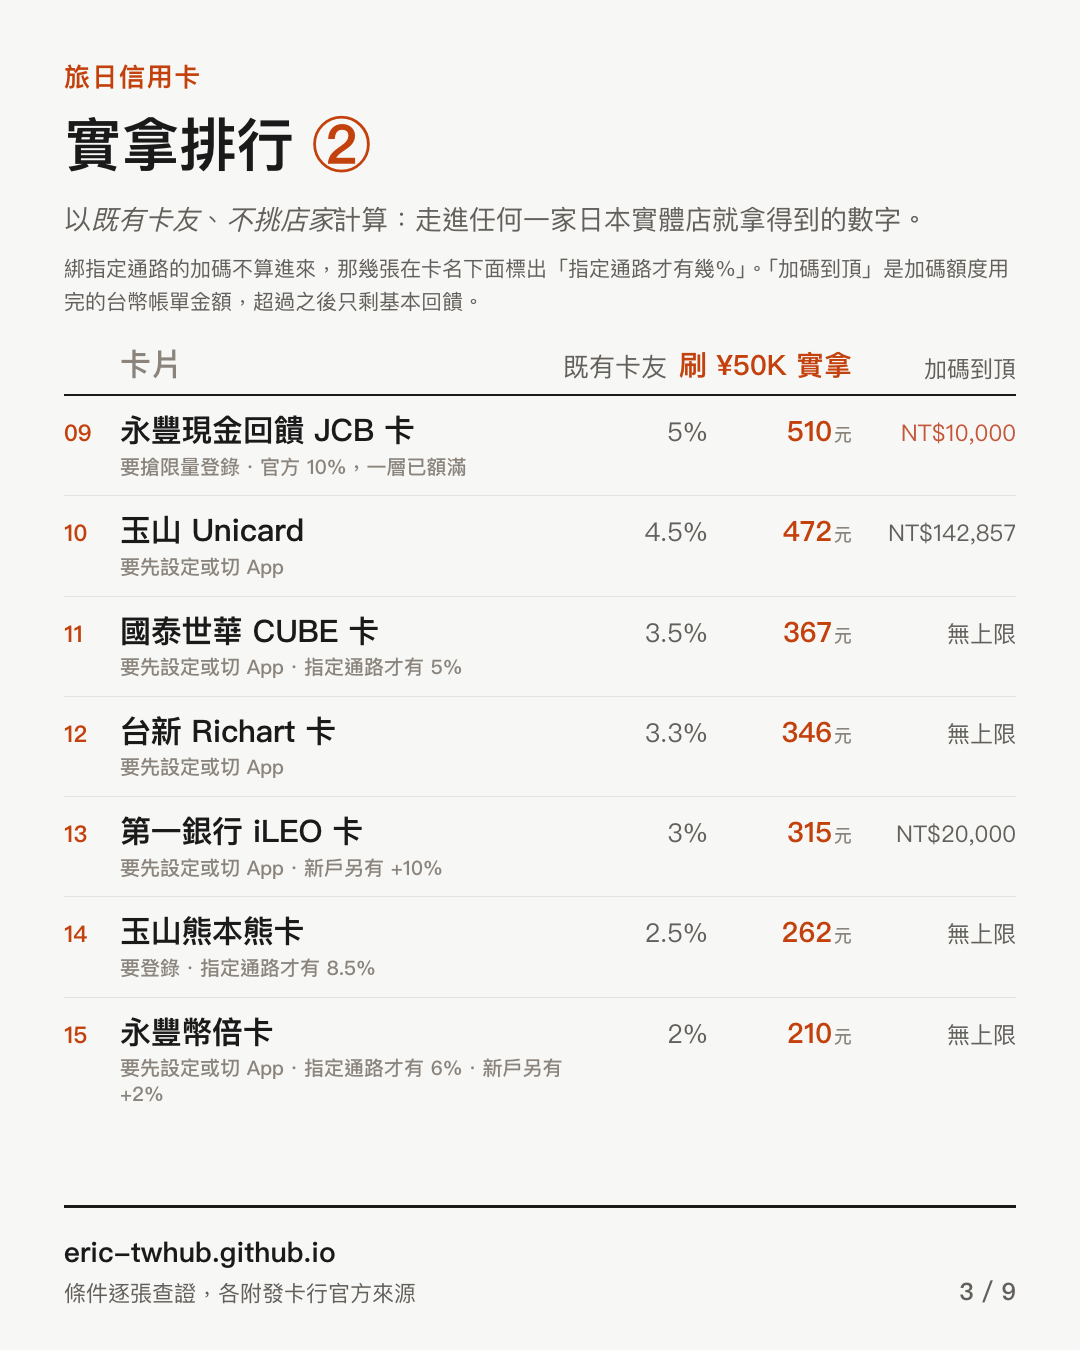
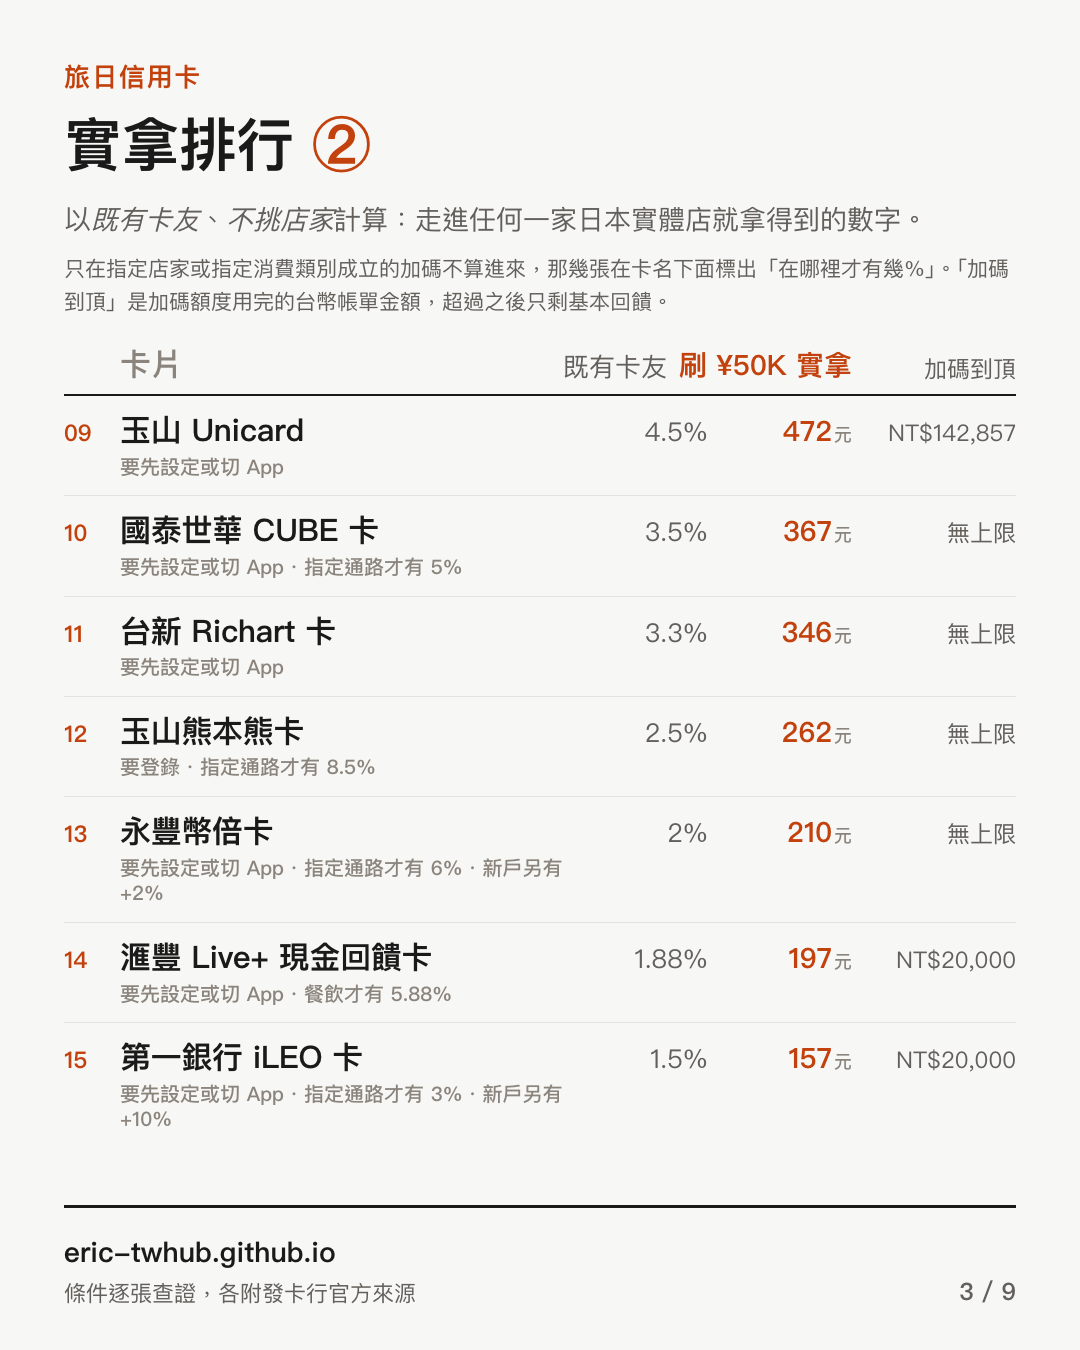
實拿排行再補兩張：綁消費類別的加碼也不算「不挑店家」
上一版只擋 store_scope（逐家店的名單），漏掉綁 MCC 類別的兩層：

- 滙豐 Live+ 三大通路 3% 只認餐飲 5441/5499/5812-5814、
  購物 5311/5944/5948、娛樂 7832/7996/7998；精選國家餐飲 1%
  只認餐飲。藥妝、電器、超市都不在名單裡，這張卡自己的
  exclude 就寫明那些只有 0.88%。排行卻印 5.88%。
- 第一銀行 iLEO 指定通路加碼 1.5% 依帳單商店名稱與行業代碼
  認定，不是泛稱的海外外幣。排行卻印 3%。

cards.json 新增 cat_scope（類別標籤陣列），和 store_scope 分開：
store_scope 是店家 slug 名單、會影響店家頁，cat_scope 只影響
「走進任何一家店拿得到多少」的計算，gen.py 不讀。

圖卡：滙豐 5.88% → 1.88%（617 元 → 197 元，第 4 名掉到第 14 名），
iLEO 3% → 1.5%（315 元 → 157 元）。卡名下面標出要在哪裡才成立，
逐層算出來：滙豐印「餐飲才有 5.88%」（餐廳才同時吃得到兩層），
iLEO 印「指定通路才有 3%」。

diff --git a/make_creditcard_cards.py b/make_creditcard_cards.py
@@ -201,12 +201,23 @@ def build(CD, mid, fee, rate_note):
     def rate_txt(v):
         return f'{v:g}%'
 
-    def plain_ts(c):
-        """到處都能拿到的加碼層：排除新戶層、名額已滿的層、以及綁店家名單的層。
+    def cats(t):
+        """這一層挑不挑店家：回傳它成立的類別標籤，到處都成立就回空的。
 
-        綁名單的那幾層只有在指定通路才成立，和不綁的層排在同一欄比大小
-        等於假設讀者剛好都在那幾家消費。四張卡因此被高估，熊本熊差 500 元。"""
-        return [t for t in tiers(c, 'shop', newbie=False) if not t.get('store_scope')]
+        兩種挑法要一起擋。store_scope 是逐家店的名單（熊本熊的指定店家），
+        cat_scope 是消費類別（滙豐只認餐飲購物娛樂的 MCC，藥妝與超市不算）。
+        只擋前者的話，滙豐 5.88% 與 iLEO 3% 會印在「走進任何一家店」那一欄，
+        而它們自己的官方條款就寫明藥妝店只有 0.88%。"""
+        if t.get('cat_scope'):
+            return list(t['cat_scope'])
+        return ['指定通路'] if t.get('store_scope') else []
+
+    def plain_ts(c):
+        """到處都能拿到的加碼層：排除新戶層、名額已滿的層、以及挑店家的層。
+
+        挑店家的那幾層只有在特定通路或特定類別才成立，和不挑的層排在同一欄
+        比大小，等於假設讀者剛好都在那幾家消費。六張卡因此被高估。"""
+        return [t for t in tiers(c, 'shop', newbie=False) if not cats(t)]
 
     def plain_rate(c):
         ts = plain_ts(c)
@@ -229,11 +240,31 @@ def build(CD, mid, fee, rate_note):
         ts = [t for t in plain_ts(c) if t['cap']]
         return round(min(t['cap'] / (t['rate'] / 100) for t in ts)) if ts else 0
 
-    def store_rate(c):
-        """挑對店家才拿得到的那個數字，沒有綁名單的層就回 0。"""
-        return (round(maxrate(c, 'shop', newbie=False), 2)
-                if any(t.get('store_scope') for t in tiers(c, 'shop', newbie=False))
-                else 0)
+    def cat_clause(c):
+        """挑對店家才拿得到的那個數字，寫成一句話；不挑店家的卡回空字串。
+
+        同一張卡的各層覆蓋範圍不一定一樣（滙豐的 3% 認餐飲購物娛樂、
+        1% 只認餐飲），所以逐個類別算，再取最高的那一組。印最高那一組
+        是因為帳面數字就是從那裡來的，要講清楚它要在哪裡才成立。"""
+        st = [t for t in tiers(c, 'shop', newbie=False) if cats(t)]
+        if not st:
+            return ''
+        base = plain_rate(c)
+        tags = []
+        for t in st:
+            for x in cats(t):
+                if x not in tags:
+                    tags.append(x)
+        best, top = [], base
+        for x in tags:
+            r = round(base + sum(t['rate'] for t in st if x in cats(t)), 2)
+            if r > top:
+                best, top = [x], r
+            elif r == top:
+                best.append(x)
+        if not best:
+            return ''
+        return f'{"／".join(best)}才有 {top:g}%'
 
     REG = {'none': '免登錄', 'reg': '要登錄', 'setup': '要先設定或切 App',
            'race': '要搶限量登錄'}
@@ -282,12 +313,11 @@ def build(CD, mid, fee, rate_note):
             v, capped = plain_back(c)
             h = plain_hit(c)
             nb = round(maxrate(c, 'shop') - maxrate(c, 'shop', newbie=False), 2)
-            sr = store_rate(c)
             # 卡名底下那行改放條件。原本放的是方案名稱（日本旅遊祭之類），
             # 那是裝飾；小抄上有，這裡的空間要留給「拿不到的理由」。
             cond = [x for x in (
                 reg_txt(c),
-                f'指定通路才有 {sr:g}%' if sr else '',
+                cat_clause(c),
                 f'新戶另有 +{nb:g}%' if nb else '',
                 f'官方 {c["total"]:g}%，一層已額滿' if soldout(c) else '',
             ) if x]
@@ -301,9 +331,9 @@ def build(CD, mid, fee, rate_note):
                 f'<h1>實拿排行 <em>{part}</em></h1>'
                 f'<div class="sub">以<em>既有卡友</em>、<em>不挑店家</em>計算：'
                 f'走進任何一家日本實體店就拿得到的數字。</div>'
-                '<div class="legend">綁指定通路的加碼不算進來，那幾張在卡名下面'
-                '標出「指定通路才有幾％」。「加碼到頂」是加碼額度用完的台幣帳單'
-                '金額，超過之後只剩基本回饋。</div>'
+                '<div class="legend">只在指定店家或指定消費類別成立的加碼不算'
+                '進來，那幾張在卡名下面標出「在哪裡才有幾％」。「加碼到頂」是'
+                '加碼額度用完的台幣帳單金額，超過之後只剩基本回饋。</div>'
                 f'<div class="list">{rows}</div>' + foot(idx, n))
 
     out.append(('jp-card-02.png', page(rank_card(2, '①', ranked[:8], 1))))
